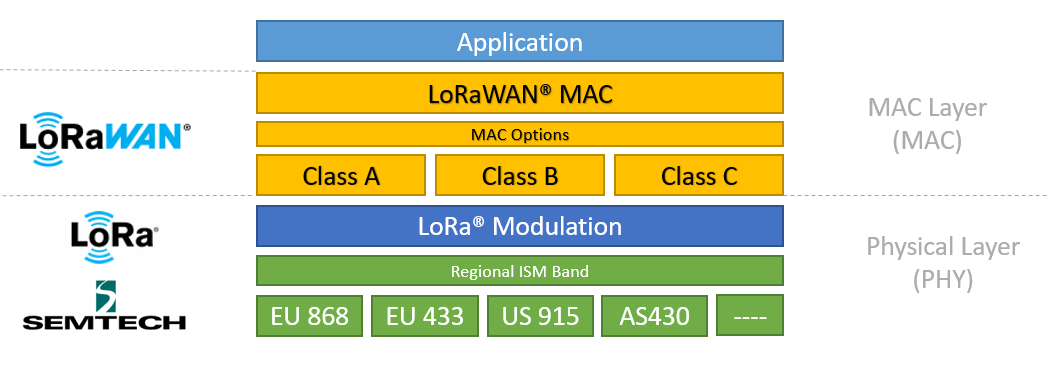
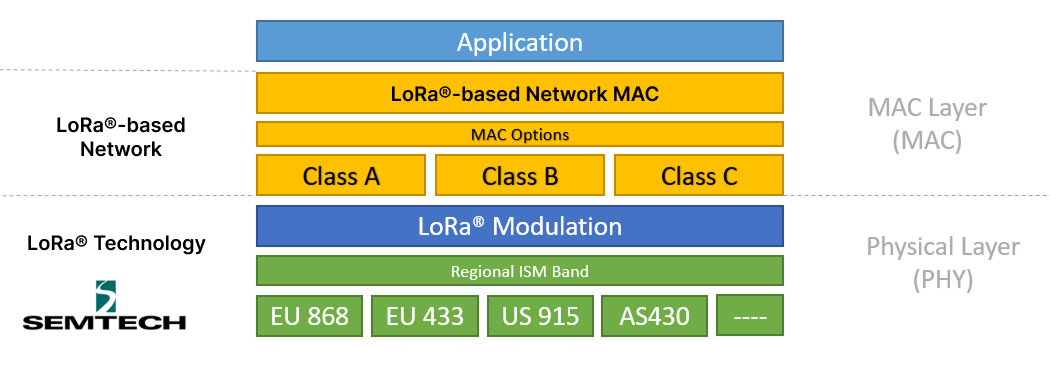
The Arduino Guide to LoRa® and LPWAN Technologies update (2 image) & LoRa® and The Things Stack minor update

Changed region(s): [[0.3657, 0.2075, 0.64, 0.2965], [0.0, 0.2965, 0.1829, 0.4447], [0.0305, 0.5633, 0.2133, 0.7116]]

diff --git a/content/learn/05.communication/05.lorawan-101/lorawan-101.md b/content/learn/05.communication/05.lorawan-101/lorawan-101.md
@@ -49,7 +49,7 @@ From the image above, notice there is a fundamental difference between a network
 
 ***[The Things Network (TTN)](https://www.thethingsnetwork.org/) is a crowdsourced, open, and decentralized LoRa®-based network server. This network is a great way to start testing devices, applications, integrations and get familiar with LoRa. To connect to TTN, you will need to be in the range of a gateway. Check the [world map](https://www.thethingsnetwork.org/map) to see if your local community already has a gateway installed; if not, consider installing one!***
 
-LoRa®-based networks are usually deployed in a **star-of-stars topology**; this means that **gateways manage data between end-devices and a network server**. Gateways are connected to the central network server via the Internet, while end-devices use LoRa® to send and receive data to and from the gateways; end-devices are not exclusively tied to a single gateway, end-devices broadcast information to all the gateways in range. Communication in LoRa®-based networks is natively **bi-directional**, although uplink communication between end-devices and the central network server is expected to be predominant in the network.
+LoRa®-based networks are usually deployed in a **star-of-stars topology**; this means that **gateways manage data between end-devices and a network server**. Gateways are connected to the central network server via the Internet, while end-devices use LoRa to send and receive data to and from the gateways; end-devices are not exclusively tied to a single gateway, end-devices broadcast information to all the gateways in range. Communication in LoRa-based networks is natively **bi-directional**, although uplink communication between end-devices and the central network server is expected to be predominant in the network.
 
 ***Star networks topologies provide the best relationship between long-range communications, the number of gateways or base stations in the network, end-devices power consumption, and battery life.***
 
@@ -94,21 +94,21 @@ Also, local regulations must be respected, for example:
 
 ### Regional Parameters
 
-The **LoRa® technology Regional Parameters specification** is a companion to the LoRa®-based network layer specification. While the LoRa®-based network layer specification defines the air interface between a compliant end-device (sensor, actuator, tracker, etc.) and a compliant network core, the LoRa® technology Regional Parameters specification defines the **adaptation of the LoRa®-based network layer specification to comply with the various regulations enforced throughout the world on the use of various frequency bands of the unlicensed spectrum which are available**. 
+The **LoRa® technology Regional Parameters specification** is a companion to the LoRa-based network layer specification. While the LoRa-based network layer specification defines the air interface between a compliant end-device (sensor, actuator, tracker, etc.) and a compliant network core, the LoRa technology Regional Parameters specification defines the **adaptation of the LoRa-based network layer specification to comply with the various regulations enforced throughout the world on the use of various frequency bands of the unlicensed spectrum which are available**. 
 
-Also, the LoRa® technology Regional Parameters specification documents the **physical layer configurations required for the compliant operation of LoRa® technology Link Layer radios** using various radio frequency modulation techniques. 
+Also, the LoRa® technology Regional Parameters specification documents the **physical layer configurations required for the compliant operation of LoRa technology Link Layer radios** using various radio frequency modulation techniques. 
 
 ***The idea behind the LoRa® technology Regional Parameters specification is to create the smallest number of regional channel plans covering the largest possible number of regulatory regions. With this, complexity is decreased to implementers as well as the certification cost (end-device certification is enumerated by network layer, Regional Parameters and channel plan revision).***
 
-LoRa® technology Regional Parameters specifications do not specify everything. They only cover a region by specifying the common denominator. For example, the LoRa® technology Regional Parameters for Asia only specify a common subset of channels, but there are variations between regulations in Asian countries. Furthermore, each network server, for example TTN, is free to select additional parameters, such as additional emission channels. 
+LoRa® technology Regional Parameters specifications do not specify everything. They only cover a region by specifying the common denominator. For example, the LoRa technology Regional Parameters for Asia only specify a common subset of channels, but there are variations between regulations in Asian countries. Furthermore, each network server, for example TTN, is free to select additional parameters, such as additional emission channels. 
 
-For more information, you can read the RP002-1.0.2 LoRa® technology Regional Parameters document [here](https://lora-alliance.org/wp-content/uploads/2020/11/RP_2-1.0.2.pdf), we also have a more detailed tutorial about LoRa® technology Regional Parameters and Arduino hardware; the tutorial can be found here [here](https://docs.arduino.cc/tutorials/mkr-wan-1310/lorawan-regional-parameters)
+For more information, you can read the RP002-1.0.2 LoRa® technology Regional Parameters document [here](https://lora-alliance.org/wp-content/uploads/2020/11/RP_2-1.0.2.pdf), we also have a more detailed tutorial about LoRa technology Regional Parameters and Arduino hardware; the tutorial can be found here [here](https://docs.arduino.cc/tutorials/mkr-wan-1310/lorawan-regional-parameters)
 
 ### Classes
 
 The LoRa® technology specification has **three** different communication profiles between devices and applications: **Class A**, **Class B**, and **Class C**. Each class serves different application needs and has optimized requirements for specific purposes. The main difference between the three classes is latency and power consumption; end-devices can always send uplinks when needed, but its class will determine when to receive downlinks.
 
-***All LoRaWAN devices must implement Class A; Class B, and Class C are extensions of Class A profile.***
+***All network devices using LoRa® technology must implement Class A; Class B, and Class C are extensions of Class A profile.***
 
  #### Class A: "Aloha"
 
@@ -130,7 +130,7 @@ Class C communication profile is used in applications with enough power availabl
 
 ### Authentication and Security
 
-Authentication and security are also important in LoRa®-based networks. Any LoRa®-based network has a baseline authentication and security framework based on the AES 128 encryption scheme. Compared to other LPWAN's, which rely on a single key for authentication and encryption, the LoRa® technology framework separates both. Authentication and integrity control use a **network session key** (NwkSKey) while user data encryption uses an **application session key** (AppSKey). 
+Authentication and security are also important in LoRa®-based networks. Any LoRa-based network has a baseline authentication and security framework based on the AES 128 encryption scheme. Compared to other LPWAN's, which rely on a single key for authentication and encryption, the LoRa technology framework separates both. Authentication and integrity control use a **network session key** (NwkSKey) while user data encryption uses an **application session key** (AppSKey). 
 
 ***NwkSKey and AppSKey are AES-128 root keys specific to the end-device, end-devices manufacturers, or application owners assigned them.***
 
@@ -152,13 +152,13 @@ Arduino® brings LoRa® connectivity to your projects with several boards, addon
 
 ### Arduino® Boards with LoRa® Connectivity
 
-The MKR WAN [1300](https://store.arduino.cc/products/arduino-mkr-wan-1300-lora-connectivity) and [1310](https://store.arduino.cc/products/arduino-mkr-wan-1310) boards provide you with a practical and cost-effective solution to applications that require LoRa® connectivity and low-power consumption. The MKR WAN 1300 and 1310 boards are based on a [SAMD21 microcontroller](https://content.arduino.cc/assets/mkr-microchip_samd21_family_full_datasheet-ds40001882d.pdf) from Microchip®; they also features a [CMCMWX1ZZABZ](https://content.arduino.cc/assets/mkrwan1310-murata_lora_module-type_abz.pdf) module from Murata® for LoRa® connectivity, the [ATECC508](https://ww1.microchip.com/downloads/aemDocuments/documents/OTH/ProductDocuments/DataSheets/20005928A.pdf) cryptoauthentication device for security, and a 2MB SPI Flash memory for onboard storage. 
+The MKR WAN [1300](https://store.arduino.cc/products/arduino-mkr-wan-1300-lora-connectivity) and [1310](https://store.arduino.cc/products/arduino-mkr-wan-1310) boards provide you with a practical and cost-effective solution to applications that require LoRa® connectivity and low-power consumption. The MKR WAN 1300 and 1310 boards are based on a [SAMD21 microcontroller](https://content.arduino.cc/assets/mkr-microchip_samd21_family_full_datasheet-ds40001882d.pdf) from Microchip®; they also features a [CMCMWX1ZZABZ](https://content.arduino.cc/assets/mkrwan1310-murata_lora_module-type_abz.pdf) module from Murata® for LoRa connectivity, the [ATECC508](https://ww1.microchip.com/downloads/aemDocuments/documents/OTH/ProductDocuments/DataSheets/20005928A.pdf) cryptoauthentication device for security, and a 2MB SPI Flash memory for onboard storage. 
 
 ![The Arduino® MKR WAN 1310 board.](assets/lorawan-101_img10.png)
 
-PRO hardware also has  LoRa® connectivity. The Arduino® [Portenta H7](https://store.arduino.cc/collections/boards/products/portenta-h7) board can have LoRa® connectivity with the [Portenta Vision Shield - LoRa](https://store.arduino.cc/products/arduino-portenta-vision-shield-lora%C2%AE); this addon board also features a [CMCMWX1ZZABZ](https://content.arduino.cc/assets/mkrwan1310-murata_lora_module-type_abz.pdf?_gl=1*54znn6*_ga*NzQ5Mzk2MDcwLjE2MjU2MDQ2MjA.*_ga_NEXN8H46L5*MTY0MDAzOTY0Ny4yNTIuMS4xNjQwMDM5NzQ2LjA.) module from Murata® for LoRa® connectivity, the same module present in the MKR 1300 and 1310 boards. 
+PRO hardware also has  LoRa® connectivity. The Arduino® [Portenta H7](https://store.arduino.cc/collections/boards/products/portenta-h7) board can have LoRa connectivity with the [Portenta Vision Shield - LoRa](https://store.arduino.cc/products/arduino-portenta-vision-shield-lora%C2%AE); this addon board also features a [CMCMWX1ZZABZ](https://content.arduino.cc/assets/mkrwan1310-murata_lora_module-type_abz.pdf?_gl=1*54znn6*_ga*NzQ5Mzk2MDcwLjE2MjU2MDQ2MjA.*_ga_NEXN8H46L5*MTY0MDAzOTY0Ny4yNTIuMS4xNjQwMDM5NzQ2LjA.) module from Murata® for LoRa connectivity, the same module present in the MKR 1300 and 1310 boards. 
 
-![The Arduino Portenta Vision Shield - LoRa.](assets/lorawan-101_img11.png)
+![The Arduino Portenta Vision Shield - LoRa](assets/lorawan-101_img11.png)
 
 The Arduino® [Edge Control](https://store.arduino.cc/products/arduino-edge-control), a remote monitoring and control solution optimized for outdoor environments, can expand its wireless connectivity capabilities by adding an MKR WAN 1300 or 1310 board. Edge Control can be positioned anywhere and is well suited for smart agriculture and other applications that require intelligent control in remote locations. 
 
@@ -166,7 +166,7 @@ The Arduino® [Edge Control](https://store.arduino.cc/products/arduino-edge-cont
 
 ### Arduino® Libraries for LoRa® Connectivity
 
-You can use several Arduino libraries with the CMCMWX1ZZABZ LoRa module from Murata®; we recommend two: The [MKRWAN library](https://github.com/arduino-libraries/MKRWAN), developed by Arduino, and the [Arduino LoRa](https://github.com/sandeepmistry/arduino-LoRa) library, developed by Sandeep Mistry. The MKRWAN and the Arduino LoRa libraries provide you the APIs to communicate with and LoRaWAN networks.
+You can use several Arduino libraries with the CMCMWX1ZZABZ LoRa® module from Murata®; we recommend two: The [MKRWAN library](https://github.com/arduino-libraries/MKRWAN), developed by Arduino, and the [Arduino LoRa](https://github.com/sandeepmistry/arduino-LoRa) library, developed by Sandeep Mistry. The MKRWAN and the Arduino LoRa libraries provide you the APIs to communicate with networks that support LoRa technology.
 
 You can use both libraries in the Arduino IDE, [online](https://store.arduino.cc/digital/create) and [offline](https://www.arduino.cc/en/software). If you are using the online IDE, you don't need to do anything, both libraries are already installed and ready to be used. If you are using the offline IDE, you must install the libraries manually. Installing libraries can be done easily by navigating to **Tools > Manage Libraries...** and then look for **MKRWAN** library by Arduino and **LoRa** by Sandeep Mistry; **remember to install the latest version of the libraries**. 
 
@@ -174,7 +174,7 @@ You can use both libraries in the Arduino IDE, [online](https://store.arduino.cc
 
 ### Example: Sending and Receiving Data to a Network Server
 
-Using Arduino hardware and software to communicate with LoRa and LoRaWAN networks is simple; let's check out an example. This example uses an MKR WAN 1310 board and the MKRWAN library to send data to a LoRaWAN network, in this case, TTN. The circuit for this example is shown in the image below:
+Using Arduino hardware and software to communicate with LoRa®-based networks is simple; let's check out an example. This example uses an MKR WAN 1310 board and the MKRWAN library to send data to a LoRa-based networks, in this case, TTN. The circuit for this example is shown in the image below:
 
 ![Circuit used in the example.](assets/lorawan-101_img13.png)
 
@@ -184,7 +184,7 @@ Once your device is registered on TTN, you can start sending and receiving data 
 
 ```arduino
 /*
-  Send and receive data from a LoRaWAN network
+  Send and receive data from a LoRa®-based network
   This sketch demonstrates how to send and receive data with the MKR WAN 1300/1310 board.
   This example code is in the public domain.
 */
@@ -290,8 +290,12 @@ Check out more detailed tutorials we have about sending data between a MKR WAN b
 
 ## Further Reading and Resources
 
-LoRa and LoRaWAN are pretty extensive but exciting topics to study. If you want to learn more about these technologies, check out the following links:
+LoRa® technology is pretty extensive but exciting topic to study. If you want to learn more about these technologies, check out the following links:
 
 - [LoRa Developer Portal from Semtech](https://lora-alliance.org/resource-hub/). Here you can find technical papers and user guides as well as specifications and datasheets from Semtech. 
 - [The Things Network documentation](https://www.thethingsnetwork.org/docs/). Here you can learn all about LoRa® technology and The Things Network!
 - [The Things Academy online course in Udemy](https://www.udemy.com/course/lorawan-fundamentals/). A free online course where you'll learn all about LoRa® technology, and get ready to start building your own Low Power Wide Area Network applications.
+
+## Trademark Acknowledgments
+
+- **LoRa®** is a registered trademark of Semtech Corporation.

diff --git a/content/arduino-cloud/02.hardware/03.lora/lora.md b/content/arduino-cloud/02.hardware/03.lora/lora.md
@@ -27,7 +27,7 @@ In this document you will find:
 
 ***Check the GitHub repository [here](https://github.com/arduino-libraries/ArduinoIoTCloud?tab=readme-ov-file#what).*** 
 
-The following boards connect to the Arduino Cloud via [The Things Stack](https://www.thethingsindustries.com/stack/), a LoRa®-based network server connected to thousands of public LoRa® gateways.
+The following boards connect to the Arduino Cloud via [The Things Stack](https://www.thethingsindustries.com/stack/), a LoRa®-based network server connected to thousands of public LoRa gateways.
 
 - [MKR WAN 1300](https://store.arduino.cc/arduino-mkr-wan-1300-lora-connectivity-1414)
 - [MKR WAN 1310](https://store.arduino.cc/mkr-wan-1310)
@@ -45,9 +45,9 @@ In this tutorial, we will walk you through the steps needed to successfully prov
 ###  Terminology Run-Trough
 
 - **LoRa®** - short for **Lo**ng **Ra**nge, is a modulation technique used to send and receive data over low-power, wide-area networks (LPWAN). 
-- **LoRa®-based network** - a type of network that uses LoRa® modulation for communication between end devices and gateways.
-- **LoRa® gateway** - a network router able to send and receive LoRa® RF packets and forward them to the internet.
-- **MKR WAN 1300/1310** - development boards that feature a LoRa® module capable of sending and receiving packets of data.
+- **LoRa®-based network** - a type of network that uses LoRa modulation for communication between end devices and gateways.
+- **LoRa® gateway** - a network router able to send and receive LoRa RF packets and forward them to the internet.
+- **MKR WAN 1300/1310** - development boards that feature a LoRa module capable of sending and receiving packets of data.
 - **End device/node** - a term used for deployed devices such as the MKR WAN 1310, which read and process sensor data.
 - **The Things Network (TTN)** - a nonprofit association providing a public LoRa®-based network service.
 - **The Things Stack Network (TTS)** - a cloud platform used by TTN and TTI for network infrastructure.
